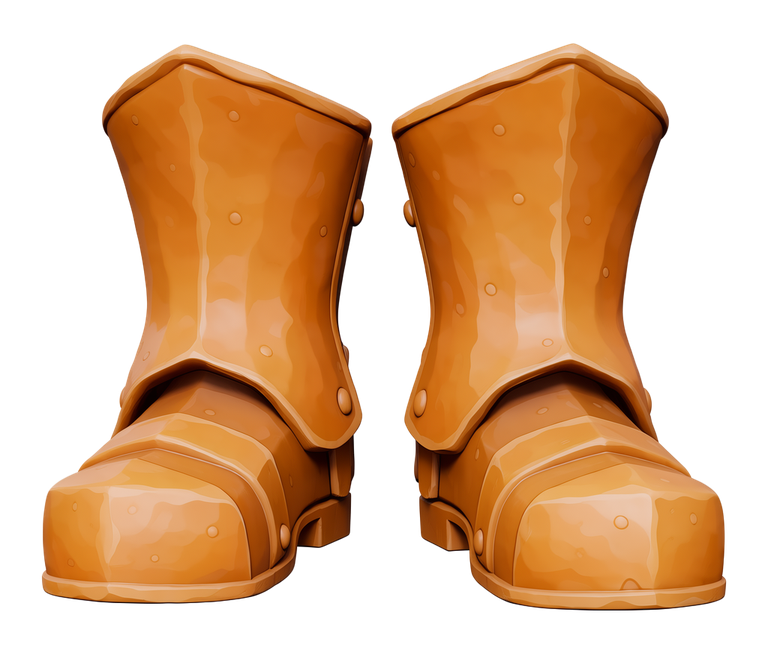
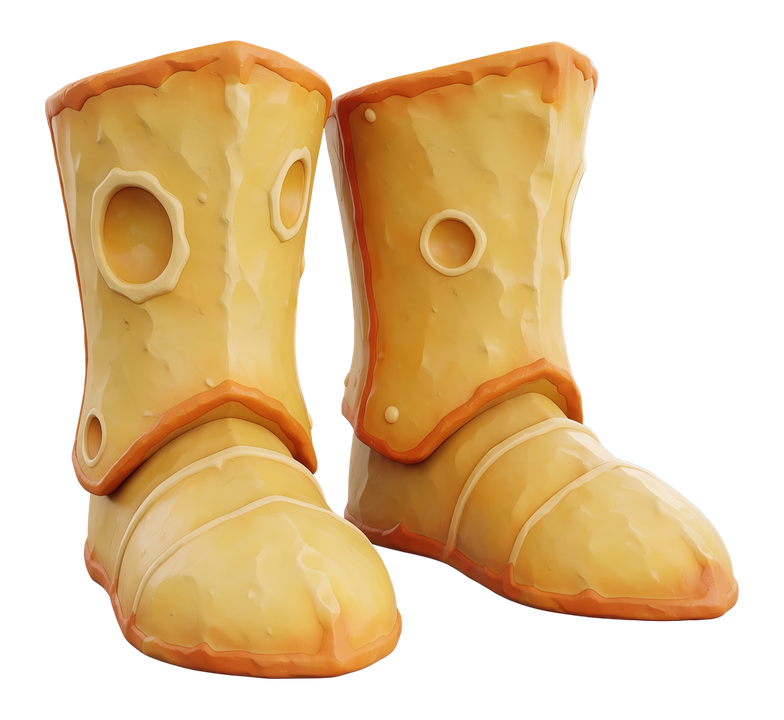
Cheese armor: read as cheese at a distance
Tim: the fresh set read brown, like cork, and the holes as dark specks.

- Worn layers (armor_textures.py paint_cheese): a bright, warm cheddar
  yellow-orange with only the fine grain of the Ludo surface, a subtle
  deeper rind along the edges, and a few large round Swiss-style eyes
  drawn as shallow hollows with a lighter lower rim.
- Moldy set: the same cheese, a little duller, with blue-green mould
  spots in a pale fuzzy ring (colours from the Ludo moldy surface).
- New Ludo icons in the same style, warmed a touch (process_art.py
  warm()); moldy icons are the same with mould added (mould()).
- Prompts in PROMPTS.md; cheese-armor.md and decision 15 updated.
- ./gradlew build and the four cheese_armor game tests pass; no code
  changed. Armor client screenshots retaken.

Claude-Session: https://claude.ai/code/session_016hf6PZ3czyqnW7gnn4SEAf

diff --git a/tools/armor_textures.py b/tools/armor_textures.py
@@ -4,10 +4,13 @@
 shading, a highlight along the top, drips at the bottom edges, and an opening in the helmet for the face. Deterministic.
 
     python3 tools/armor_textures.py
-Writes textures/entity/equipment/humanoid/milk(_spoiled).png and humanoid_leggings/milk(_spoiled).png. Cheese armor is laid the same way
-from mat_cheese_armor.webp (fresh cheddar, a few holes) and mat_cheese_moldy.webp (blue-green mould spots), without drips: a pressed
-cheese has firm square edges; a few holes are cut, and the moldy set gets more mould spots. Writes cheese(_moldy).png in both layers.
-Needs Pillow.
+Writes textures/entity/equipment/humanoid/milk(_spoiled).png and humanoid_leggings/milk(_spoiled).png.
+
+Cheese armor (paint_cheese) must read as cheese from a distance (Tim, 2026-11-25: the first pass read brown, like cork). So it is a
+bright, warm cheddar yellow-orange whose fine grain only is taken from mat_cheese_armor.webp, a subtle deeper rind along each face's
+edge, and a few large round eyes drawn as shallow hollows with a lighter rim (Swiss-style eyes read better than cheddar's at 16 px a
+block). The moldy set is the same cheese, a little duller, with blue-green mould spots (their colours sampled from mat_cheese_moldy.webp)
+and a pale fuzzy edge, so the change reads as cheese gone bad. Writes cheese(_moldy).png in both layers. Needs Pillow.
 """
 import os
 import random
@@ -34,12 +37,12 @@ def clamp(c):
     return max(0, min(255, int(round(c))))
 
 
-def paint(img, src, box, rnd, spoiled, helmet=False, cheese=False):
+def paint(img, src, box, rnd, spoiled, helmet=False):
     px, sp = img.load(), src.load()
     sw, sh = src.size
     for name, (fu, fv, fw, fh) in faces(box).items():
         ox, oy = rnd.randrange(sw), rnd.randrange(sh)
-        drips = {c: rnd.randint(1, 3) for c in range(fw) if rnd.random() < 0.35} if name not in ("top", "bottom") and not cheese else {}
+        drips = {c: rnd.randint(1, 3) for c in range(fw) if rnd.random() < 0.35} if name not in ("top", "bottom") else {}
         for j in range(fh):
             for i in range(fw):
                 r, g, b = sp[(ox + i * 3) % sw, (oy + j * 3) % sh][:3]
@@ -52,16 +55,88 @@ def paint(img, src, box, rnd, spoiled, helmet=False, cheese=False):
                     k *= 0.93 if spoiled else 1.05             # a drip running off the bottom edge
                 if name == "bottom":
                     k *= 0.85
-                if cheese:
-                    if 0 < i < fw - 1 and 0 < j < fh - 1 and rnd.random() < 0.03:
-                        r, g, b = r * 0.62, g * 0.55, b * 0.45     # a hole (an eye) in the cheese
-                    elif spoiled and rnd.random() < 0.07:
-                        r, g, b = 70, 130, 120                     # a blue-green mould spot
-                elif spoiled and rnd.random() < 0.05:
+                if spoiled and rnd.random() < 0.05:
                     r, g, b = r * 0.75, g * 0.82, b * 0.45     # a mould spot
                 px[fu + i, fv + j] = (clamp(r * k), clamp(g * k), clamp(b * k), 255)
         if helmet and name == "front":
             for j in range(3, 7):                              # the face opening: eyes, nose, mouth
+                for i in range(1, fw - 1):
+                    px[fu + i, fv + j] = (0, 0, 0, 0)
+
+
+CHEDDAR = (255, 202, 84)          # bright, warm cheddar yellow-orange
+RIND = (238, 160, 52)             # a subtle deeper orange along the edges
+MOULD_EDGE = (176, 206, 186)      # the pale fuzz round a mould spot
+
+
+def pixels(img):
+    px = img.load()
+    return [px[x, y] for y in range(img.height) for x in range(img.width)]
+
+
+def grain(src):
+    """The cheese surface's fine light and shade, around 1.0, with its own holes and specks evened out."""
+    lum = [sum(p[:3]) / 3 for p in pixels(src)]
+    mean = sum(lum) / len(lum)
+    return [max(0.93, min(1.07, 1 + (v / mean - 1) * 0.35)) for v in lum], src.size
+
+
+def mould_colours(src):
+    """The blue-green of the Ludo mouldy cheese, picked from its bluish pixels."""
+    out = [p[:3] for p in pixels(src) if p[2] > p[0] + 10 and p[1] > p[0]]
+    return out or [(70, 135, 125)]
+
+
+def paint_cheese(img, gr, box, rnd, moldy, colours, helmet=False):
+    px = img.load()
+    vals, (sw, sh) = gr
+    base = tuple(c * 0.94 for c in CHEDDAR) if moldy else CHEDDAR
+    for name, (fu, fv, fw, fh) in faces(box).items():
+        ox, oy = rnd.randrange(sw), rnd.randrange(sh)
+        cell = {}
+        for j in range(fh):
+            for i in range(fw):
+                k = vals[((oy + j * 3) % sh) * sw + (ox + i * 3) % sw]
+                # the rind: a subtle deeper orange along the bottom edge and, half as strong, the side edges
+                c = base
+                if name not in ("top", "bottom") and (j == fh - 1 or i in (0, fw - 1)):
+                    w = 1.0 if j == fh - 1 else 0.4
+                    c = tuple(b + (r - b) * w for b, r in zip(base, RIND))
+                if name not in ("top", "bottom") and j == 0:
+                    k *= 1.05                                  # light along the top edge
+                if name == "bottom":
+                    k *= 0.86
+                cell[i, j] = [c[0] * k, c[1] * k, c[2] * k]
+        # eyes: a few large round shallow hollows, darker inside at the top (in shadow), lighter on the lower rim. A wide face gets a round
+        # 3 px eye (a 3 x 3 without its corners), a narrow one a 2 px eye.
+        if fw >= 4 and fh >= 4:
+            big = fw >= 6 and fh >= 6
+            for _ in range(max(1, fw * fh // 40) if rnd.random() < 0.8 else 0):
+                ex, ey = rnd.randrange(1, fw - (3 if big else 2)), rnd.randrange(1, fh - (3 if big else 2))
+                if helmet and name == "front" and 1 <= ey <= 7:
+                    continue
+                if big:
+                    hollow = (((1, 0), 0.74), ((0, 1), 0.80), ((1, 1), 0.82), ((2, 1), 0.84), ((1, 2), 0.90))
+                    rim = ((0, 2), (2, 2), (1, 3))
+                else:
+                    hollow = (((0, 0), 0.74), ((1, 0), 0.80), ((0, 1), 0.86), ((1, 1), 0.90))
+                    rim = ((0, 2), (1, 2), (2, 1))
+                for (dx, dy), k in hollow:
+                    cell[ex + dx, ey + dy] = [v * k for v in base]
+                for dx, dy in rim:
+                    if (ex + dx, ey + dy) in cell:
+                        cell[ex + dx, ey + dy] = [min(255, v * 1.08) for v in base]
+        if moldy:
+            for _ in range(max(1, fw * fh // 14)):
+                mx, my = rnd.randrange(fw), rnd.randrange(fh)
+                cell[mx, my] = list(rnd.choice(colours))
+                for dx, dy in rnd.sample([(1, 0), (-1, 0), (0, 1), (0, -1)], 2):
+                    if (mx + dx, my + dy) in cell and rnd.random() < 0.7:
+                        cell[mx + dx, my + dy] = list(MOULD_EDGE)
+        for (i, j), (r, g, b) in cell.items():
+            px[fu + i, fv + j] = (clamp(r), clamp(g), clamp(b), 255)
+        if helmet and name == "front":
+            for j in range(3, 7):                              # the face opening
                 for i in range(1, fw - 1):
                     px[fu + i, fv + j] = (0, 0, 0, 0)
 
@@ -86,19 +161,20 @@ def main():
         paint(legs, src, BODY, rnd, spoiled)
         paint(legs, src, LEG, rnd, spoiled)
         legs.save(os.path.join(EQ, "humanoid_leggings", "milk" + suffix + ".png"))
+    gr = grain(source("mat_cheese_armor.webp"))
+    colours = mould_colours(source("mat_cheese_moldy.webp"))
     for moldy in (False, True):
-        src = source("mat_cheese_moldy.webp" if moldy else "mat_cheese_armor.webp")
         suffix = "_moldy" if moldy else ""
-        rnd = random.Random(11 if moldy else 5)
+        rnd = random.Random(5)                 # the same eyes in both sets: the moldy set is the same cheese gone bad
         top = Image.new("RGBA", (64, 32), (0, 0, 0, 0))
-        paint(top, src, HEAD, rnd, moldy, helmet=True, cheese=True)
-        paint(top, src, BODY, rnd, moldy, cheese=True)
-        paint(top, src, ARM, rnd, moldy, cheese=True)
-        paint(top, src, LEG, rnd, moldy, cheese=True)
+        paint_cheese(top, gr, HEAD, rnd, moldy, colours, helmet=True)
+        paint_cheese(top, gr, BODY, rnd, moldy, colours)
+        paint_cheese(top, gr, ARM, rnd, moldy, colours)
+        paint_cheese(top, gr, LEG, rnd, moldy, colours)
         top.save(os.path.join(EQ, "humanoid", "cheese" + suffix + ".png"))
         legs = Image.new("RGBA", (64, 32), (0, 0, 0, 0))
-        paint(legs, src, BODY, rnd, moldy, cheese=True)
-        paint(legs, src, LEG, rnd, moldy, cheese=True)
+        paint_cheese(legs, gr, BODY, rnd, moldy, colours)
+        paint_cheese(legs, gr, LEG, rnd, moldy, colours)
         legs.save(os.path.join(EQ, "humanoid_leggings", "cheese" + suffix + ".png"))
     print("wrote the milk and cheese armor layers")
 

diff --git a/tools/process_art.py b/tools/process_art.py
@@ -104,8 +104,20 @@ def sour(img, seed):
 	return out
 
 
+def warm(img):
+	"""Cheese armor icons: the Ludo cheese warmed a touch toward the worn layers' cheddar yellow-orange (tools/armor_textures.py)."""
+	out = img.copy()
+	px = out.load()
+	for x in range(out.width):
+		for y in range(out.height):
+			r, g, b, a = px[x, y]
+			if a:
+				px[x, y] = (min(255, int(r * 1.02)), int(g * 0.95), int(b * 0.78), a)
+	return out
+
+
 def mould(img, seed):
-	"""Moldy cheese: a little duller and darker, with blue-green mould spots ringed paler. Keeps the alpha."""
+	"""Moldy cheese: the same cheese, only a little duller, with blue-green mould spots in a pale fuzzy ring. Keeps the alpha."""
 	rnd = random.Random(seed)
 	out = img.copy()
 	px = out.load()
@@ -113,14 +125,14 @@ def mould(img, seed):
 		for y in range(out.height):
 			r, g, b, a = px[x, y]
 			if a:
-				px[x, y] = (int(r * 0.85), int(g * 0.84), int(b * 0.8), a)
-	for _ in range(out.width * out.height // 70):
+				px[x, y] = (int(r * 0.95), int(g * 0.94), int(b * 0.92), a)
+	for _ in range(out.width * out.height // 60):
 		x, y = rnd.randrange(1, out.width - 1), rnd.randrange(1, out.height - 1)
 		if px[x, y][3]:
 			for dx, dy in ((0, 0), (1, 0), (0, 1), (-1, 0), (0, -1)):
 				r, g, b, a = px[x + dx, y + dy]
 				if a:
-					px[x + dx, y + dy] = (70, 130, 120, a) if (dx, dy) == (0, 0) else (min(255, r + 30), min(255, g + 40), min(255, b + 50), a)
+					px[x + dx, y + dy] = (60, 128, 118, a) if (dx, dy) == (0, 0) else (176, 206, 186, a)
 	return out
 
 
@@ -194,6 +206,8 @@ def main():
 	items = sorted(f[:-5] for f in os.listdir(f"{SRC}/item") if f.endswith(".webp"))
 	for name in items:
 		img = icon(f"{SRC}/item/{name}.webp")
+		if name.startswith("cheese_"):
+			img = warm(img)
 		img.save(f"{ASSETS}/item/{name}.png")
 		if name.startswith("milk_"):
 			sour(img, name).save(f"{ASSETS}/item/{name}_spoiled.png")

diff --git a/art/source/PROMPTS.md b/art/source/PROMPTS.md
@@ -46,13 +46,15 @@ Surfaces (`texture`), laid by `tools/armor_textures.py` on the vanilla armor lay
 - `mat_cheese_armor.webp`: "Seamless tileable texture of the cut face of a young cheddar cheese: smooth firm orange-yellow cheese with a slight waxy sheen and a few small round holes (eyes) scattered sparsely, fine curd grain, no rind, no objects, no text, even lighting, top-down"
 - `mat_cheese_moldy.webp`: "Seamless tileable texture of the cut face of mouldy cheddar cheese: dull orange-yellow cheese with a few small round holes, covered in scattered fuzzy blue-green mould spots with white edges, some drying cracks, matte, no rind, no objects, no text, even lighting, top-down"
 
-Item icons (`item-icon`), in `item/`:
+Item icons (`item-icon`), in `item/`. These were redone the same day: the first icons and worn layers read brown, like cork (Tim).
 | File | Prompt |
 |---|---|
-| cheese_helmet / _chestplate | A single knight helmet (chestplate) made entirely of orange-yellow cheddar cheese, smooth waxy cheese surface with a few small round holes, blocky medieval shape, game item icon, plain grey background, no text |
-| cheese_leggings / _boots | A single pair of knight armor leggings (boots) made entirely of orange-yellow cheddar cheese, smooth waxy cheese surface with a few small round holes, blocky medieval shape, game item icon, plain grey background, no text |
+| cheese_helmet / _chestplate | A single knight helmet (chestplate) made entirely of bright light yellow-orange cheese, like a block of Swiss cheese: smooth pale golden cheese with a few large round shallow holes (eyes) with lighter rims, a thin slightly deeper orange rind along the edges, blocky medieval shape, bright even lighting, game item icon, plain grey background, no text |
+| cheese_leggings / _boots | A single pair of knight armor leggings (boots) made entirely of bright light yellow-orange cheese, like a block of Swiss cheese: smooth pale golden cheese with a few large round shallow holes (eyes) with lighter rims, a thin slightly deeper orange rind along the edges, blocky medieval shape, bright even lighting, game item icon, plain grey background, no text |
 
-The moldy icons are made from these in `tools/process_art.py` (`mould()`: duller, blue-green mould spots), not drawn again.
+- `tools/process_art.py` warms these icons a touch toward the worn cheddar colour (`warm()`).
+- It makes the moldy icons from them (`mould()`): the same cheese, slightly duller, with blue-green mould spots in a pale ring.
+- The worn layers take only the fine grain of `mat_cheese_armor.webp` and the mould colours of `mat_cheese_moldy.webp`. `tools/armor_textures.py` (`paint_cheese`) draws the cheddar colour, rind and eyes.
 
 ## 2026-11-09: whey, spoiled food, the walk-in fridge, the cow lane (Ludo createImage)
 Item icons (`item-icon`, Photorealistic 3D):

diff --git a/docs/cheese-armor.md b/docs/cheese-armor.md
@@ -68,9 +68,17 @@ cut cheese: `cheddar` or `sheep_cheese` (tag `farmings:repairs_cheese_armor`).
 ## Art
 - **Surfaces:** two Ludo surfaces (`art/source/mat_cheese_armor.webp`, young cheddar with a few holes; `mat_cheese_moldy.webp`,
   with blue-green mould spots). Prompts are in `art/source/PROMPTS.md`.
-- **Worn look:** `tools/armor_textures.py` lays the surfaces face by face on the vanilla armor layout, as for milk armor. Cheese gets
-  firm edges and a few holes instead of drips; the moldy set gets more mould spots.
-- **Icons:** four Ludo icons. `tools/process_art.py` makes the moldy icons from them (`mould()`).
+- **Worn look (redone 2026-11-25; Tim: the first pass read brown, like cork):** `tools/armor_textures.py` (`paint_cheese`) draws each
+  face of the vanilla armor layout:
+  - a bright, warm cheddar yellow-orange (RGB 255, 202, 84), with the fine grain of the fresh surface;
+  - a subtle deeper-orange rind along the edges;
+  - a few large round eyes, drawn as shallow hollows with a lighter lower rim. Swiss-style eyes read better than cheddar's at this
+    scale.
+  
+  The moldy set is the same cheese, a little duller, with blue-green mould spots in a pale fuzzy ring. The mould colours are taken from
+  the moldy surface. The change reads as cheese gone bad.
+- **Icons:** four Ludo icons of bright cheese with large eyes, warmed a touch by `tools/process_art.py` (`warm()`). The moldy icons are
+  the same icons with mould added (`mould()`).
 
 ## Code and tests
 - **Code:**

diff --git a/docs/questions/cheese-armor.md b/docs/questions/cheese-armor.md
@@ -45,3 +45,7 @@ Brief: Tim's idea, "turning milk armor into cheese armor its weaker but lasts lo
 13. **No Field Manual page.** Milk armor has none; it is an easter egg.
 14. **Art from Ludo.** Two surfaces and four icons. The moldy icons are made by script (`process_art.py` `mould()`), the way the spoiled
     milk icons are. Prompts are in `art/source/PROMPTS.md`.
+15. **Colour pass (Tim, 2026-11-25: "reads brown, like cork").**
+    - The worn layers are now a bright cheddar yellow-orange with a subtle rind and a few large round, lighter-rimmed Swiss-style eyes.
+    - The moldy set is the same base with blue-green mould on top.
+    - The icons were redrawn by Ludo in the same style.
